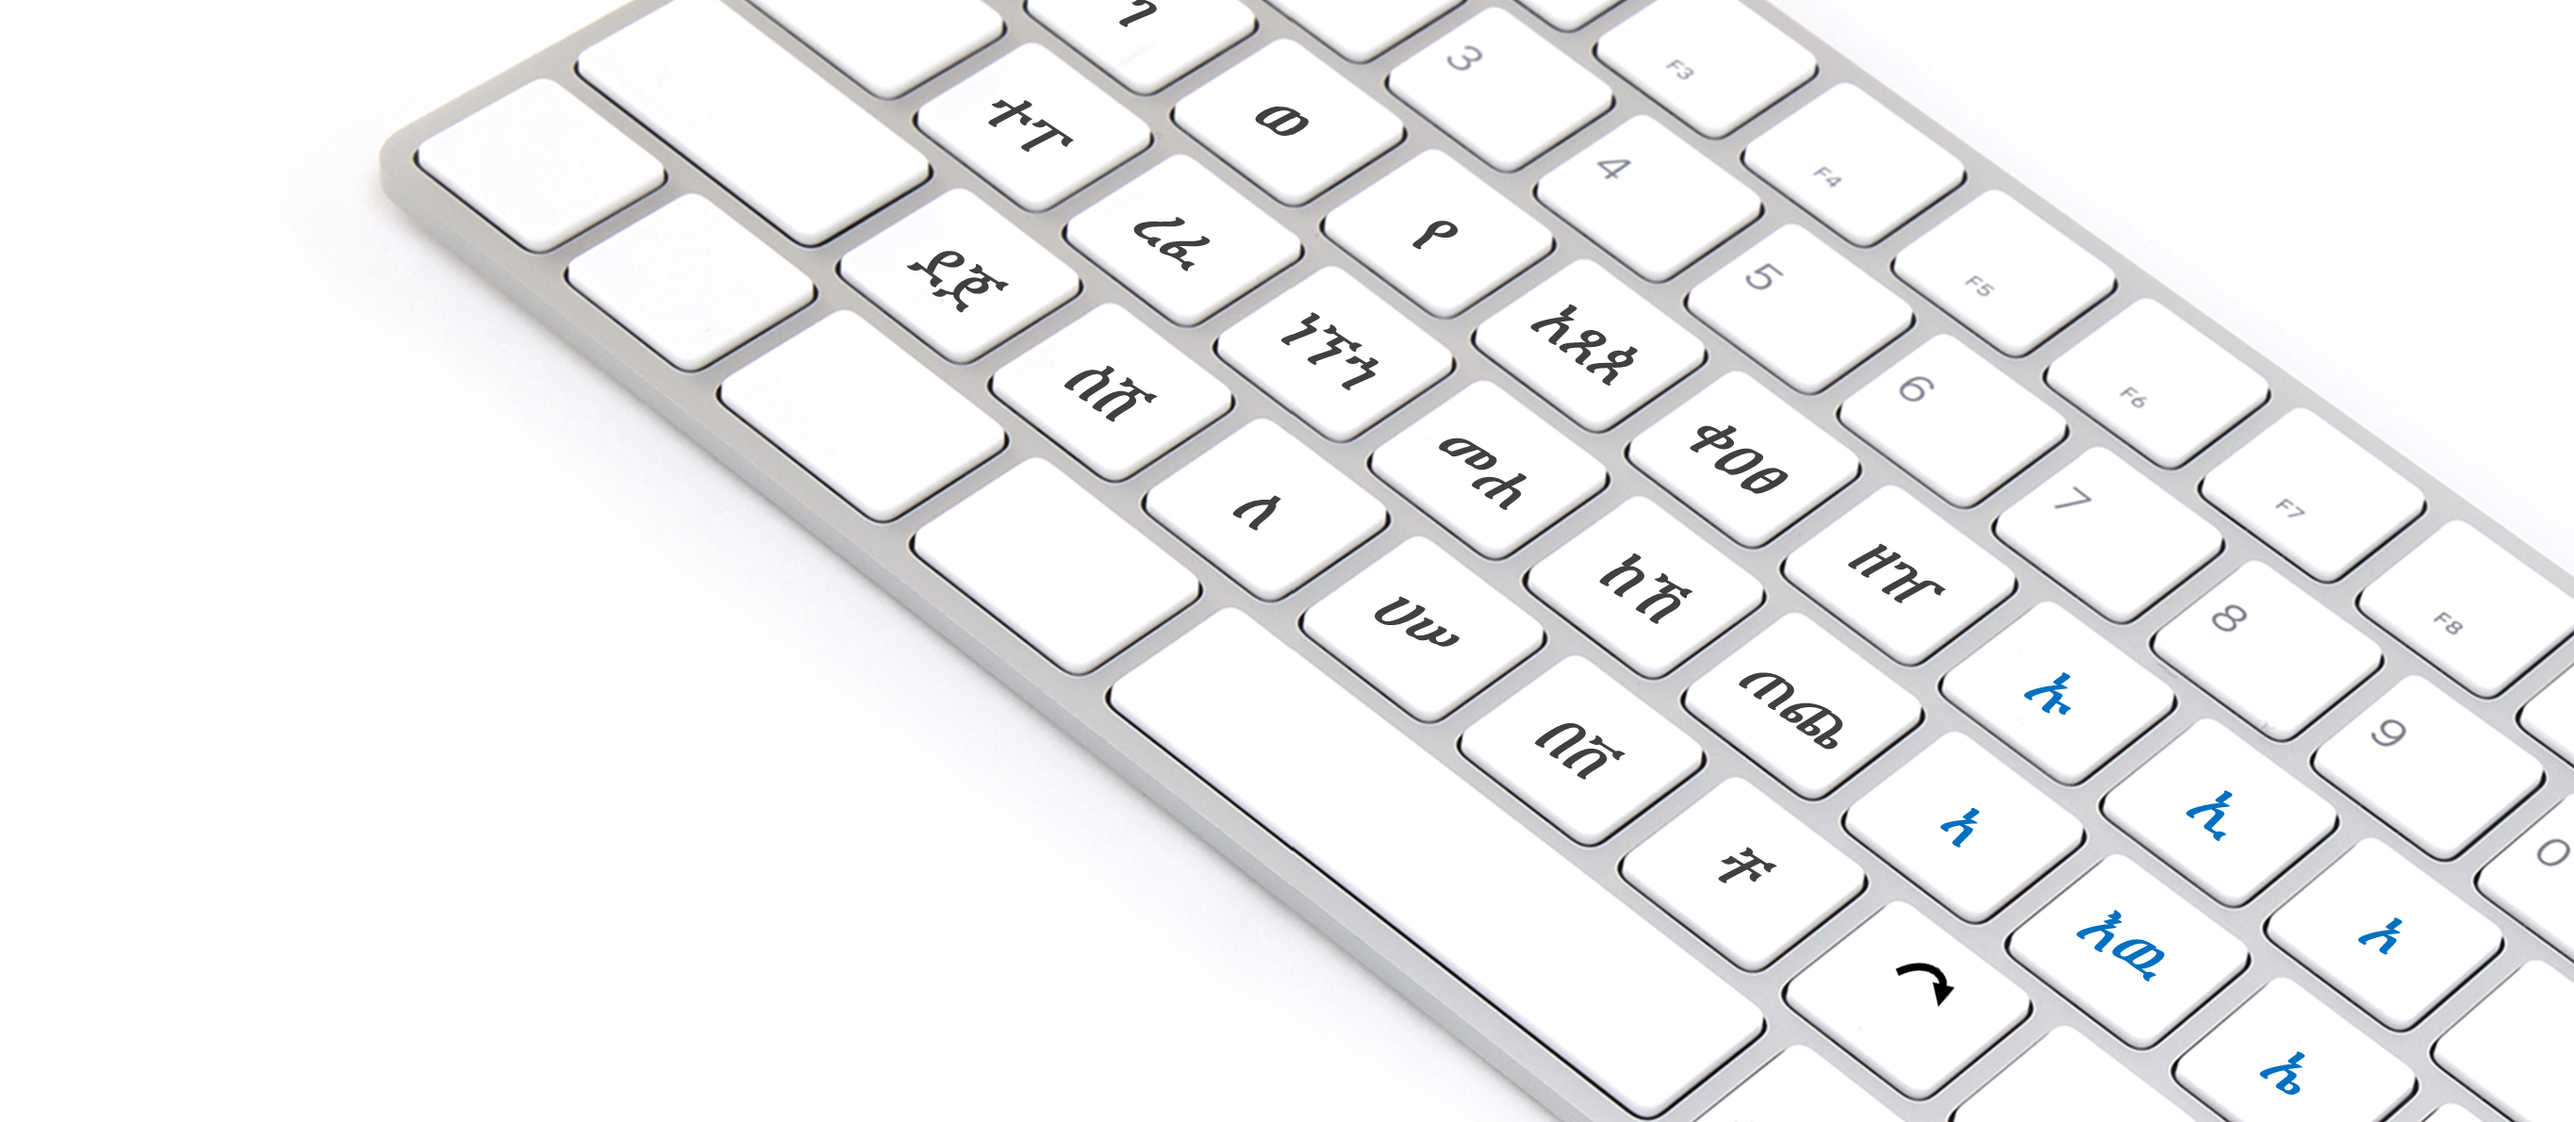
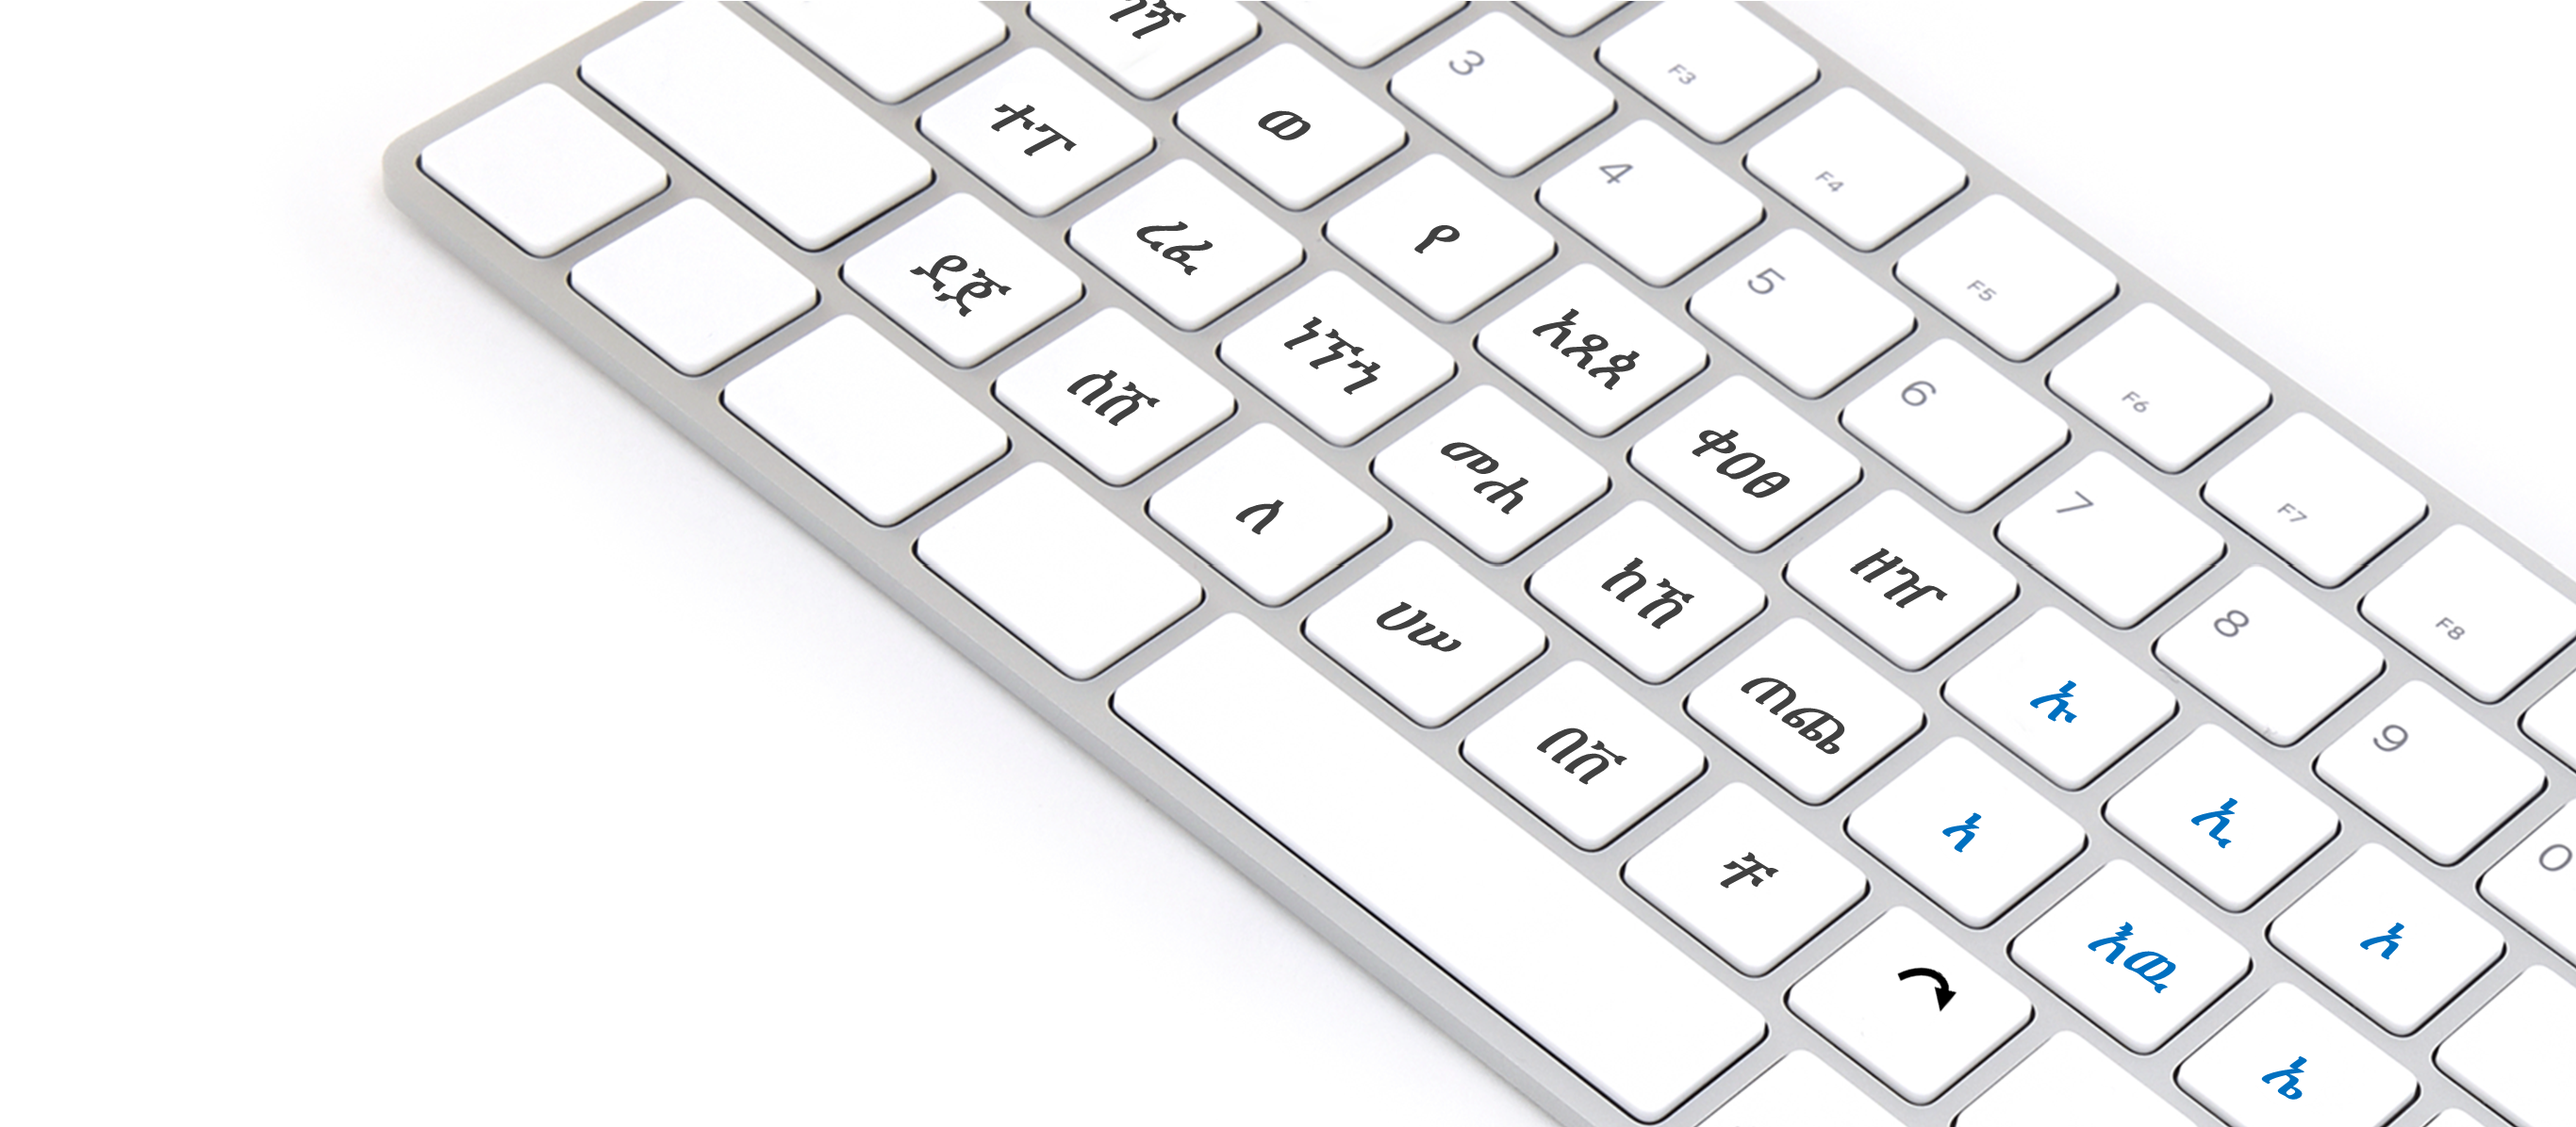
Add files via upload

diff --git a/teranama.html b/teranama.html
@@ -6,7 +6,7 @@
   <title>ተራናማ ሙከራ</title>
   <script src="https://cdn.tailwindcss.com"></script>
 <script>
-const BASE_W = 1024, BASE_H = 579;
+const BASE_W = 1024, BASE_H = 606;
 const stage = document.getElementById('stage');
 function fit(){
   const sw = window.innerWidth, sh = window.innerHeight;
@@ -18,7 +18,7 @@ window.addEventListener('resize', fit);
 </script>
   <script crossorigin src="https://unpkg.com/react@18/umd/react.development.js"></script>
 <script>
-const BASE_W = 1024, BASE_H = 579;
+const BASE_W = 1024, BASE_H = 606;
 const stage = document.getElementById('stage');
 function fit(){
   const sw = window.innerWidth, sh = window.innerHeight;
@@ -30,7 +30,7 @@ window.addEventListener('resize', fit);
 </script>
   <script crossorigin src="https://unpkg.com/react-dom@18/umd/react-dom.development.js"></script>
 <script>
-const BASE_W = 1024, BASE_H = 579;
+const BASE_W = 1024, BASE_H = 606;
 const stage = document.getElementById('stage');
 function fit(){
   const sw = window.innerWidth, sh = window.innerHeight;
@@ -42,7 +42,7 @@ window.addEventListener('resize', fit);
 </script>
   <script src="https://unpkg.com/@babel/standalone/babel.min.js"></script>
 <script>
-const BASE_W = 1024, BASE_H = 579;
+const BASE_W = 1024, BASE_H = 606;
 const stage = document.getElementById('stage');
 function fit(){
   const sw = window.innerWidth, sh = window.innerHeight;
@@ -61,7 +61,7 @@ window.addEventListener('resize', fit);
 }
 #stage{
   position:relative;
-  width:1024px; height:579px;   /* 기준 해상도 고정 */
+  width:1024px; height:606px;   /* 기준 해상도 고정 */
   transform-origin: top left;
 }
 #bgwrap{
@@ -209,7 +209,7 @@ const wBaseSet = new Set([...wSeriesBaseMap.values()]);
 
 // Base groups for 'next' cycling
 const layout = {
-  Q: ["ገ"], W: ["ወ"], E: ["የ"], R: ["አ","ጸ","ጰ"], T: ["ቀ","ዐ","ፀ","ቐ"], Y: ["ዘ","ዠ"],
+  Q: ["ገ", "ጘ"], W: ["ወ"], E: ["የ"], R: ["አ","ጸ","ጰ"], T: ["ቀ","ዐ","ፀ","ቐ"], Y: ["ዘ","ዠ"],
   A: ["ተ","ፐ"], S: ["ረ","ፈ"], D: ["ነ","ኘ","ኀ"], F: ["መ","ሐ"], G: ["ከ","ኸ"], H: ["ጠ","ጨ"],
   Z: ["ደ","ጀ"], X: ["ሰ","ሸ"], C: ["ለ"], V: ["በ","ቨ"], B: ["ሀ","ሠ"], N: ["ቸ"],
   M: ["next"]
@@ -418,14 +418,14 @@ window.addEventListener('resize', fit);
 const kb = document.getElementById('bgwrap');
 const keyPos = {
   // 1행
-  KeyQ:{x:309,y:479}, KeyW:{x:356,y:479}, KeyE:{x:403,y:479}, KeyR:{x:450,y:479},
-  KeyT:{x:496,y:479}, KeyY:{x:563,y:479}, KeyU:{x:610,y:479}, KeyI:{x:656,y:479}, KeyO:{x:703,y:479},
+  KeyQ:{x:309,y:476}, KeyW:{x:356,y:476}, KeyE:{x:403,y:476}, KeyR:{x:450,y:476},
+  KeyT:{x:496,y:476}, KeyY:{x:563,y:476}, KeyU:{x:610,y:476}, KeyI:{x:656,y:476}, KeyO:{x:703,y:476},
   // 2행
-  KeyA:{x:320,y:517}, KeyS:{x:367,y:517}, KeyD:{x:413,y:517}, KeyF:{x:460,y:517},
-  KeyG:{x:506,y:517}, KeyH:{x:573,y:517}, KeyJ:{x:620,y:517}, KeyK:{x:667,y:517}, KeyL:{x:713,y:517},
+  KeyA:{x:320,y:512}, KeyS:{x:367,y:512}, KeyD:{x:413,y:512}, KeyF:{x:460,y:512},
+  KeyG:{x:506,y:512}, KeyH:{x:573,y:512}, KeyJ:{x:620,y:512}, KeyK:{x:667,y:512}, KeyL:{x:713,y:512},
   // 3행
-  KeyZ:{x:345,y:554}, KeyX:{x:392,y:554}, KeyC:{x:439,y:554}, KeyV:{x:486,y:554},
-  KeyB:{x:532,y:554}, KeyN:{x:599,y:554}, KeyM:{x:646,y:554},
+  KeyZ:{x:345,y:549}, KeyX:{x:392,y:549}, KeyC:{x:439,y:549}, KeyV:{x:486,y:549},
+  KeyB:{x:532,y:549}, KeyN:{x:599,y:549}, KeyM:{x:646,y:549},
 };
 
 function flashAt(x,y){
